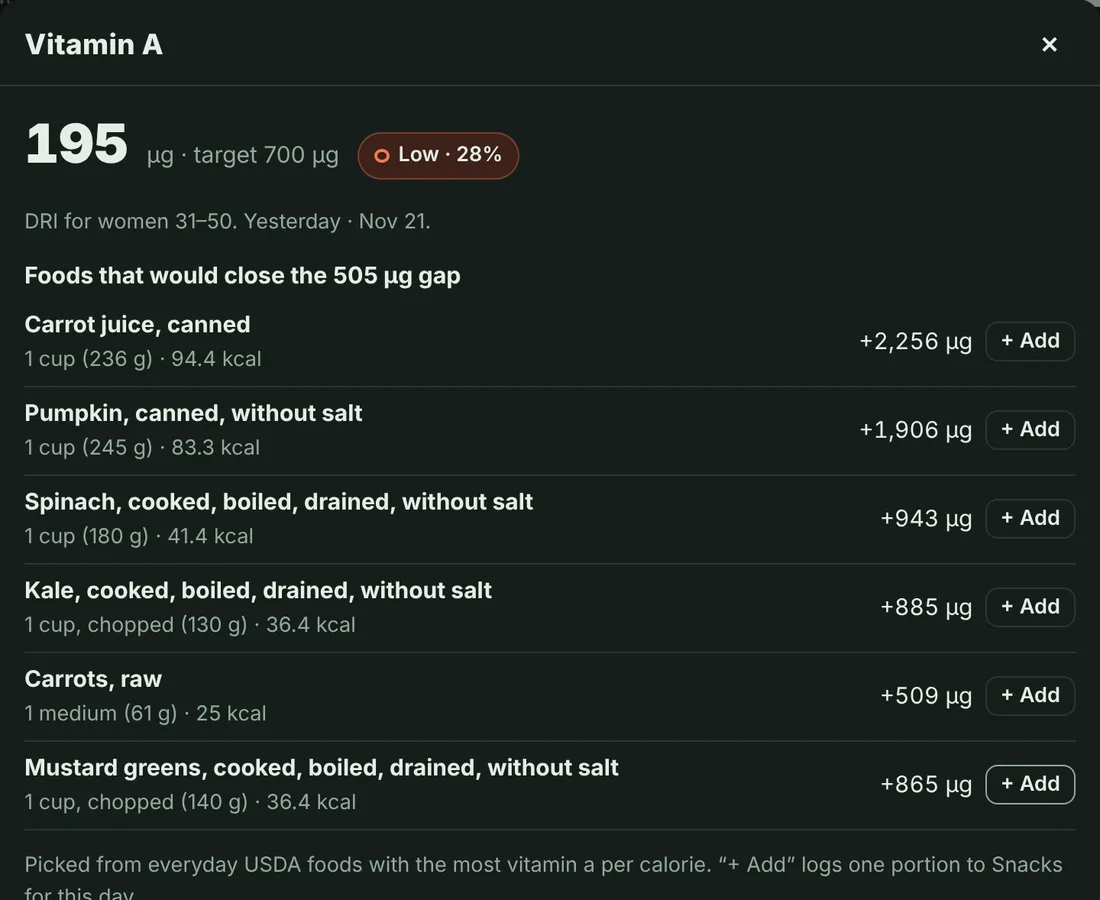
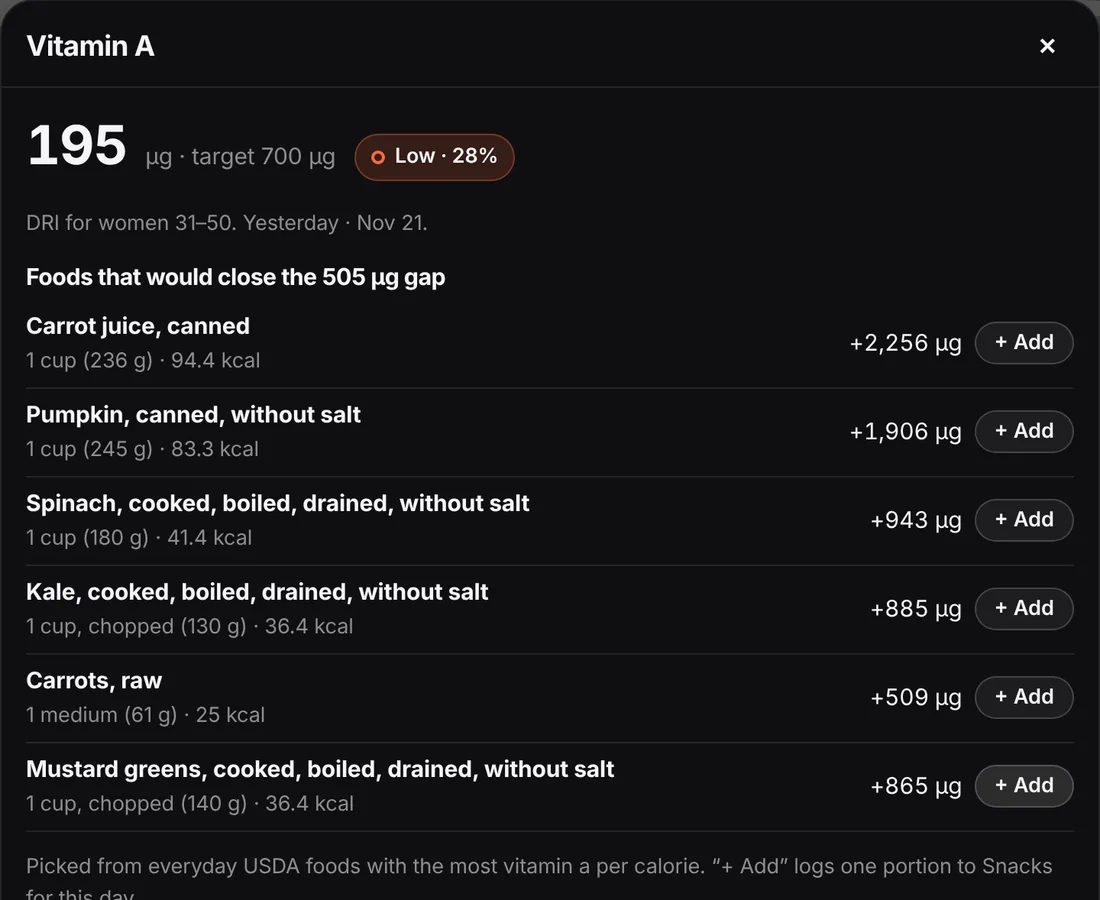
App: dark modern theme matching the landing page
- Black background, Inter / Inter Tight type, tracked uppercase tabs,
  pill buttons (white primary, purple accent), frosted app bar, a soft
  purple glow, purple for links, selected tab and highlights
- The daily scoreboard is a white Nutrition Facts panel on black
- "Over" status moves from purple to pink so it isn't confused with the
  purple accent (landing copy updated)
- Landing page screenshots retaken in the new look

Claude-Session: https://claude.ai/code/session_018kfFewY9TGrkut3juaSC9B

diff --git a/app/index.html b/app/index.html
@@ -13,38 +13,24 @@
 <meta name="claude:viewport-fit-sides" content="cover">
 <link rel="preconnect" href="https://fonts.googleapis.com">
 <link rel="preconnect" href="https://fonts.gstatic.com" crossorigin>
-<link rel="stylesheet" href="https://fonts.googleapis.com/css2?family=Archivo:wdth,wght@62..125,500..900&family=Inter:wght@600&family=Public+Sans:ital,wght@0,400..700;1,400&display=swap">
+<link rel="stylesheet" href="https://fonts.googleapis.com/css2?family=Inter+Tight:wght@500..800&family=Inter:wght@400..700&display=swap">
 <style>
 /* Layout: sticky app bar + tabs; Today is a two-column desk (scoreboard right, logging left) that stacks with the scoreboard first on phones. */
 :root {
-  --bg: #f3f5f1; --surface: #ffffff; --sunken: #e9ede7; --ink: #16201b; --muted: #5a6a61; --line: #d5dcd5;
-  --accent: #1f4fd1; --accent-ink: #ffffff; --accent-soft: #e3eaff;
-  --met: #1c8a4a; --near: #b7790a; --low: #cc4a1f; --over: #8a3bbf; --info: #8b978f;
-  --met-soft: #dcf1e4; --near-soft: #f8ecd2; --low-soft: #fbe2d8; --over-soft: #efe1f8;
-  --track: #e3e8e3;
-  --display: "Archivo", "Arial Narrow", "Helvetica Neue", Arial, sans-serif;
-  --body: "Public Sans", "Segoe UI", system-ui, -apple-system, sans-serif;
-  --radius: 10px; --shadow: 0 1px 2px rgb(16 32 24 / 6%), 0 8px 24px rgb(16 32 24 / 6%);
-  color-scheme: light;
-}
-@media (prefers-color-scheme: dark) {
-  :root:not([data-theme="light"]) {
-    --bg: #0e1411; --surface: #161e1a; --sunken: #1c2621; --ink: #e6ede8; --muted: #98a89f; --line: #2b3731;
-    --accent: #86a6ff; --accent-ink: #0b1430; --accent-soft: #1d2a4d;
-    --met: #4cc27f; --near: #e6b03c; --low: #f27a52; --over: #c18af0; --info: #6f7d75;
-    --met-soft: #173827; --near-soft: #3a2f14; --low-soft: #3d2118; --over-soft: #301f40;
-    --track: #24302a; --shadow: 0 1px 2px rgb(0 0 0 / 30%), 0 8px 24px rgb(0 0 0 / 25%);
-    color-scheme: dark;
-  }
-}
-:root[data-theme="dark"] {
-  --bg: #0e1411; --surface: #161e1a; --sunken: #1c2621; --ink: #e6ede8; --muted: #98a89f; --line: #2b3731;
-  --accent: #86a6ff; --accent-ink: #0b1430; --accent-soft: #1d2a4d;
-  --met: #4cc27f; --near: #e6b03c; --low: #f27a52; --over: #c18af0; --info: #6f7d75;
-  --met-soft: #173827; --near-soft: #3a2f14; --low-soft: #3d2118; --over-soft: #301f40;
-  --track: #24302a; --shadow: 0 1px 2px rgb(0 0 0 / 30%), 0 8px 24px rgb(0 0 0 / 25%);
+  /* Dark, single theme to match the landing page: black, white type and pills, a hint of purple.
+     Status colours: green met, amber close, orange low, pink over (purple is decoration only). */
+  --bg: #000000; --surface: #0d0d0f; --sunken: #17171a; --ink: #f5f5f7; --muted: #8e8e93; --white: #f5f5f7;
+  --line: rgb(255 255 255 / 9%); --line-strong: rgb(255 255 255 / 18%);
+  --accent: #a78bfa; --accent-ink: #0c0618; --accent-soft: rgb(167 139 250 / 15%);
+  --met: #34c77b; --near: #f5b742; --low: #ff6b3d; --over: #ff4d8d; --info: #6e6e73;
+  --met-soft: rgb(52 199 123 / 16%); --near-soft: rgb(245 183 66 / 16%); --low-soft: rgb(255 107 61 / 16%); --over-soft: rgb(255 77 141 / 16%);
+  --track: #26262b;
+  --display: "Inter Tight", "Inter", -apple-system, BlinkMacSystemFont, "Helvetica Neue", Arial, sans-serif;
+  --body: "Inter", -apple-system, BlinkMacSystemFont, "Helvetica Neue", Arial, sans-serif;
+  --radius: 18px; --shadow: 0 20px 60px rgb(0 0 0 / 50%);
   color-scheme: dark;
 }
+html { background: var(--bg); }
 
 * { box-sizing: border-box; }
 html, body { min-height: 100%; }
@@ -271,6 +257,63 @@ details summary { cursor: pointer; font-weight: 600; }
   .bigcount { font-size: 2.6rem; }
   .datenav .label { min-width: 7.5em; }
 }
+
+/* ---- Dark modern theme, matching the landing page ---- */
+body { letter-spacing: -.005em; background: var(--bg) radial-gradient(1100px 420px at 85% -140px, rgb(167 139 250 / 18%), transparent 70%) no-repeat; }
+h1, h2, h3 { font-family: var(--display); font-stretch: normal; letter-spacing: -.02em; }
+h2 { font-weight: 700; }
+h3 { font-weight: 650; }
+.eyebrow { font: 600 .68rem/1.2 var(--body); letter-spacing: .2em; }
+a { color: var(--accent); }
+body::before { background: var(--bg); }
+.appbar { background: rgb(0 0 0 / 72%); backdrop-filter: saturate(180%) blur(20px); -webkit-backdrop-filter: saturate(180%) blur(20px); border-bottom-color: var(--line); }
+.tab { font: 600 .72rem/1 var(--body); letter-spacing: .16em; text-transform: uppercase; padding: 15px 14px 13px; border-bottom-width: 2px; }
+.tab[aria-selected="true"] { color: var(--ink); border-bottom-color: var(--accent); }
+.datenav .label { font-weight: 600; }
+.btn { border-radius: 999px; background: rgb(255 255 255 / 6%); border-color: var(--line-strong); padding: 8px 16px; }
+.btn:hover { background: rgb(255 255 255 / 12%); border-color: var(--line-strong); }
+.btn.primary { background: var(--white); color: #000; border-color: var(--white); }
+.btn.primary:hover { filter: none; background: #ffffff; }
+.btn.accent { background: var(--accent); color: var(--accent-ink); border-color: var(--accent); }
+.btn.accent:hover { filter: brightness(1.08); }
+.btn.ghost { background: transparent; border-color: transparent; }
+.btn.ghost:hover { background: rgb(255 255 255 / 8%); }
+.btn.small { padding: 5px 12px; }
+.btn.icon { padding: 6px 10px; }
+.input, select.input, textarea.input { background: var(--sunken); border-color: var(--line); border-radius: 12px; }
+.input:focus { border-color: var(--accent); box-shadow: 0 0 0 3px var(--accent-soft); }
+.card { background: var(--surface); border-color: var(--line); border-radius: var(--radius); padding: 20px; }
+.banner { background: var(--accent-soft); border-color: rgb(167 139 250 / 45%); border-radius: 16px; }
+.seg { border-radius: 999px; border-color: var(--line-strong); }
+.seg button { background: transparent; color: var(--muted); }
+.seg button[aria-pressed="true"] { background: var(--white); color: #000; }
+.chip { background: var(--sunken); }
+.tile { background: var(--surface); border-color: var(--line); border-radius: var(--radius); }
+.tile .v, .detail-top .big, .energy .kcal { font-family: var(--display); font-stretch: normal; font-weight: 700; letter-spacing: -.02em; }
+.meal-head h3 { font-weight: 700; }
+.result:hover, .entry:hover, .nrow:hover { background: rgb(255 255 255 / 5%); }
+.pitem { background: var(--sunken); border-radius: 14px; }
+.tag { background: rgb(255 255 255 / 7%); }
+.tag.mine, .result .versions { color: var(--accent); }
+.tag.mine { background: var(--accent-soft); }
+.scrim { background: rgb(0 0 0 / 65%); backdrop-filter: blur(6px); -webkit-backdrop-filter: blur(6px); }
+.sheet { background: #0f0f11; border: 1px solid var(--line); border-radius: 22px 22px 0 0; }
+@media (min-width: 760px) { .sheet { border-radius: 22px; } }
+.preview-grid .p { border-radius: 14px; }
+.toast { background: var(--white); color: #000; border-radius: 999px; }
+
+/* The daily scoreboard is a white Nutrition Facts panel on black, like the label on the landing page. */
+.score {
+  --surface: #ffffff; --sunken: #f2f2f5; --ink: #111111; --muted: #5f5f66; --white: #111111;
+  --line: #d9d9de; --line-strong: #c7c7cc; --track: #e8e8ed; --info: #8e8e93;
+  --met: #1c8a4a; --near: #b7790a; --low: #d4461c; --over: #d1245f;
+  --met-soft: #dcf1e4; --near-soft: #f8ecd2; --low-soft: #fbe2d8; --over-soft: #fbdde7;
+  background: #ffffff; color: #111111; border: 2px solid #111111; border-radius: 6px; color-scheme: light;
+  box-shadow: 0 0 0 1px rgb(255 255 255 / 6%), 0 30px 90px rgb(167 139 250 / 16%);
+}
+.score .score-title h2, .score .bigcount { font-family: "Helvetica Neue", Helvetica, Arial, sans-serif; font-stretch: normal; letter-spacing: -.02em; }
+.score .seg button[aria-pressed="true"] { background: #111111; color: #ffffff; }
+.score .nrow:hover { background: #f2f2f5; }
 </style>
 <!-- ARTIFACT-HEAD-END -->
 </head>

diff --git a/index.html b/index.html
@@ -27,7 +27,7 @@
   --bg: #000000; --raised: #0d0d0f; --raised-2: #161618; --ink: #f5f5f7; --muted: #86868b; --faint: #6e6e73;
   --line: rgb(255 255 255 / 9%); --line-strong: rgb(255 255 255 / 18%);
   --accent: #2997ff; --pill: #f5f5f7; --pill-ink: #000000;
-  --met: #34c77b; --near: #f5b742; --low: #ff6b3d; --over: #bf8cff;
+  --met: #34c77b; --near: #f5b742; --low: #ff6b3d; --over: #ff4d8d;
   --label-paper: #ffffff; --label-ink: #111111;
   --display: "Inter Tight", "Inter", -apple-system, BlinkMacSystemFont, "Helvetica Neue", Arial, sans-serif;
   --body: "Inter", -apple-system, BlinkMacSystemFont, "Helvetica Neue", Arial, sans-serif;
@@ -207,7 +207,7 @@ footer a { color: var(--muted); }
       <div class="copy">
         <div class="tag" style="color:var(--met)"><span class="dot" style="background:var(--met)"></span>Daily scoreboard</div>
         <h3>One number tells you how your day is going</h3>
-        <p>"19 of 29 targets met." Green is met, amber is close, orange is low, purple is over. Tap any nutrient to see exactly which foods it came from.</p>
+        <p>"19 of 29 targets met." Green is met, amber is close, orange is low, pink is over. Tap any nutrient to see exactly which foods it came from.</p>
       </div>
       <div class="shot"><img src="/assets/landing/scoreboard.webp" width="1100" height="900" alt="The daily scoreboard: targets met, a status bar, calories and macros, and nutrients that need attention" loading="lazy"></div>
     </div>

diff --git a/src/app.js b/src/app.js
@@ -253,7 +253,7 @@
         <textarea class="input" id="nl-input" rows="2" placeholder="2 eggs, 1 slice whole wheat toast and a banana">${esc(S.nlText || '')}</textarea>
         <div class="row" style="margin-top:8px">
           <select class="input" id="nl-meal" style="width:auto" aria-label="Meal">${NL.MEALS.map((m) => `<option value="${m.key}" ${m.key === (S.nlMeal || defaultMeal()) ? 'selected' : ''}>${m.name}</option>`).join('')}</select>
-          <button class="btn primary" data-action="nl-parse">Read it</button>
+          <button class="btn accent" data-action="nl-parse">Read it</button>
           <span class="hint">Amounts, units and plain food names: “1 cup oatmeal”, “8 oz salmon”, “a handful of almonds”.</span>
         </div>
         ${S.parsed ? parsedHTML() : ''}
